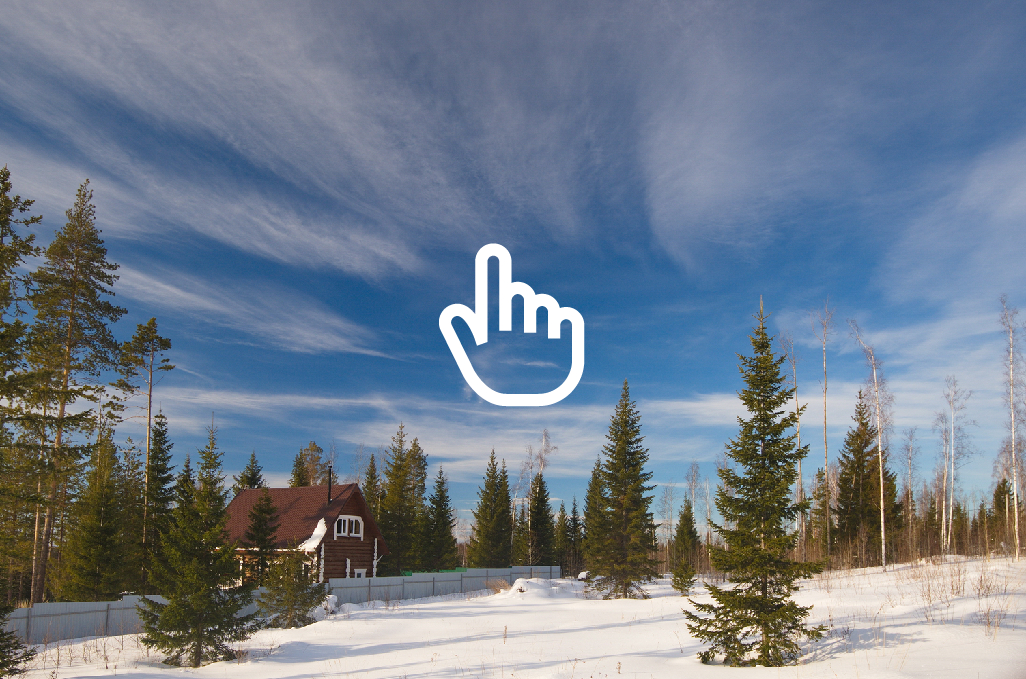
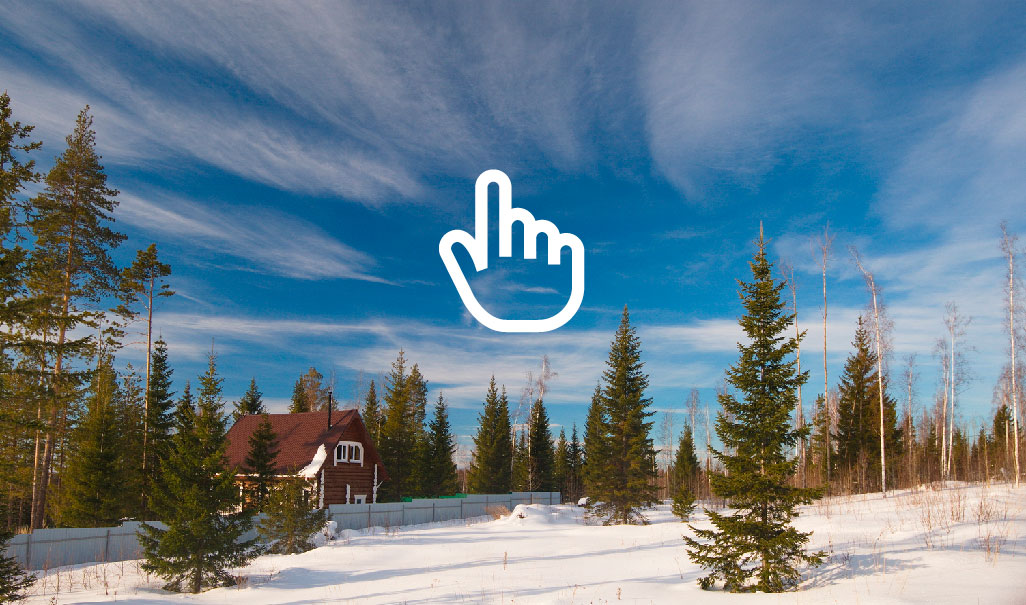
commit

diff --git a/app/css/main.css b/app/css/main.css
@@ -126,7 +126,8 @@ ul {
   max-width: 1600px;
   margin: auto;
   background: url("../img/bg_main.jpg") no-repeat 0 0;
-  overflow: hidden; }
+  overflow: hidden;
+  padding-bottom: 685px; }
 
 .nopadding {
   padding: 0 !important; }
@@ -285,7 +286,9 @@ ul {
 
 .tur .text-mod {
   font-size: 0;
-  padding: 0; }
+  padding: 0;
+  height: 545px;
+  overflow: hidden; }
 
 .foto-poselka .text-mod {
   padding: 25px;
@@ -463,6 +466,32 @@ ul {
   .price span {
     font-family: ALSRubl;
     font-weight: 400; }
+
+.dotted p {
+  display: block;
+  width: 100%;
+  width: 1000px;
+  -webkit-border-radius: 10px;
+          border-radius: 10px;
+  background: url("../img/dotted.png") no-repeat 0 0;
+  padding: 20px 25px 30px 25px;
+  -webkit-box-sizing: border-box;
+          box-sizing: border-box;
+  height: auto;
+  overflow: hidden;
+  min-height: 173px;
+  color: #333;
+  font-family: PTSerifI;
+  font-size: 28px;
+  line-height: 1.1; }
+
+.go-look2 {
+  background: url("../img/go-look2.png") no-repeat 0 0;
+  width: 386px;
+  height: 73px;
+  display: block;
+  margin: auto;
+  margin-top: 46px; }
 
 /*==========  Desktop First Method  ==========*/
 /* Large Devices, Wide Screens */

diff --git a/app/sass/main.sass b/app/sass/main.sass
@@ -56,6 +56,7 @@ ul
 	margin: auto
 	background: url("../img/bg_main.jpg") no-repeat 0 0 
 	overflow: hidden
+	padding-bottom: 685px
 
 .nopadding
 	padding: 0 !important	
@@ -219,6 +220,8 @@ ul
 	.text-mod
 		font-size: 0
 		padding: 0
+		height: 545px
+		overflow: hidden
 
 .foto-poselka
 	.text-mod
@@ -392,9 +395,31 @@ ul
 	span
 		font-family: ALSRubl
 		font-weight: 400
-	
 
+.dotted
+	p
+		display: block
+		width: 100%
+		width: 1000px
+		border-radius: 10px
+		background: url("../img/dotted.png") no-repeat 0 0
+		padding: 20px 25px 30px 25px
+		box-sizing: border-box 
+		height: auto
+		overflow: hidden
+		min-height: 173px 
+		color: #333
+		font-family: PTSerifI
+		font-size: 28px
+		line-height: 1.1
 
+.go-look2
+	background: url("../img/go-look2.png") no-repeat 0 0
+	width: 386px
+	height: 73px
+	display: block
+	margin: auto
+	margin-top: 46px
 
 
 

diff --git a/app/index.html b/app/index.html
@@ -178,6 +178,10 @@
 			<div class="price w_1024">
 				<p>4.599.000 <span>g</span></p>
 			</div>
+			<div class="w_1024 text-mod dotted">
+				<p>При покупке дома, мы можем предложить 50 % скидки на соседние участки земли, для расширения ваших владений. Также если вы становитесь жителем нашего посёлка, вы получаете много дополнительных приемуществ, о которых я расскажу Вам при встрече! 				</p>
+				<a href="#" class="go-look2"></a>
+			</div><!--dotted-->		
 		</div><!--wrapper-->
 	</body>
 	</html>
